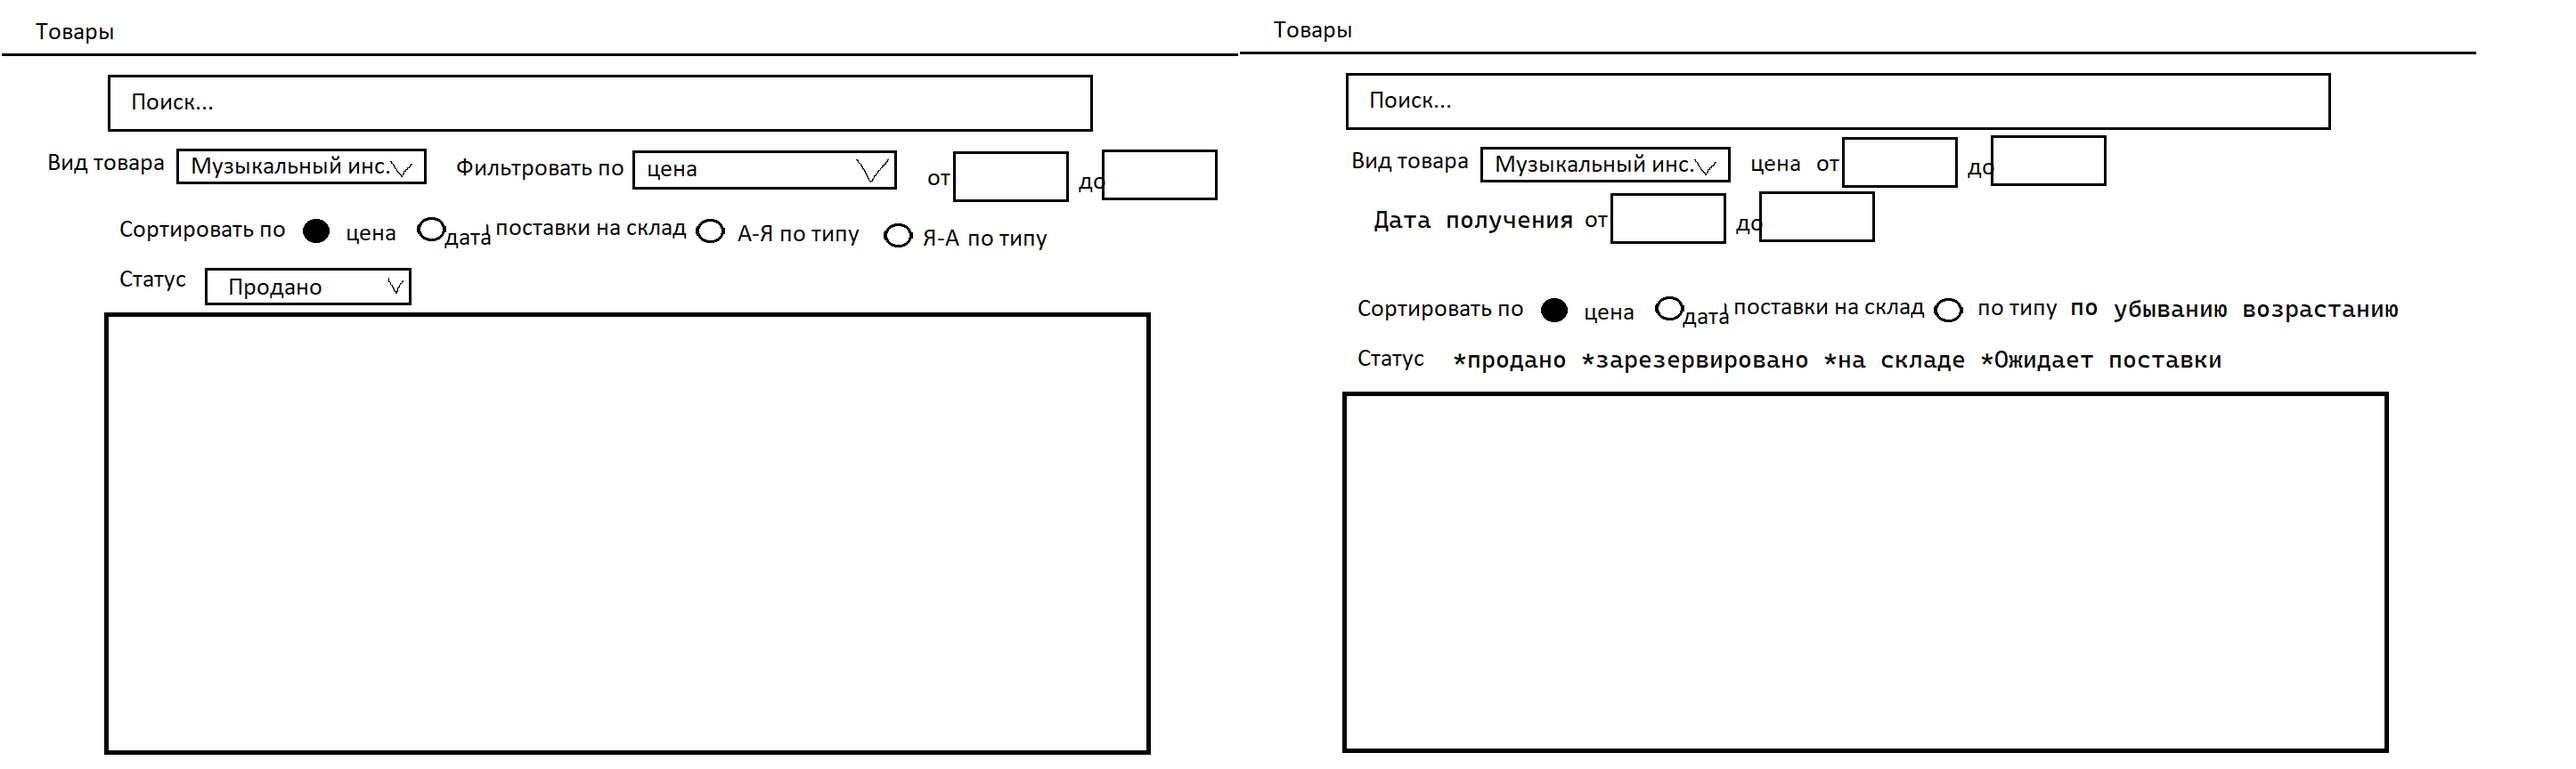
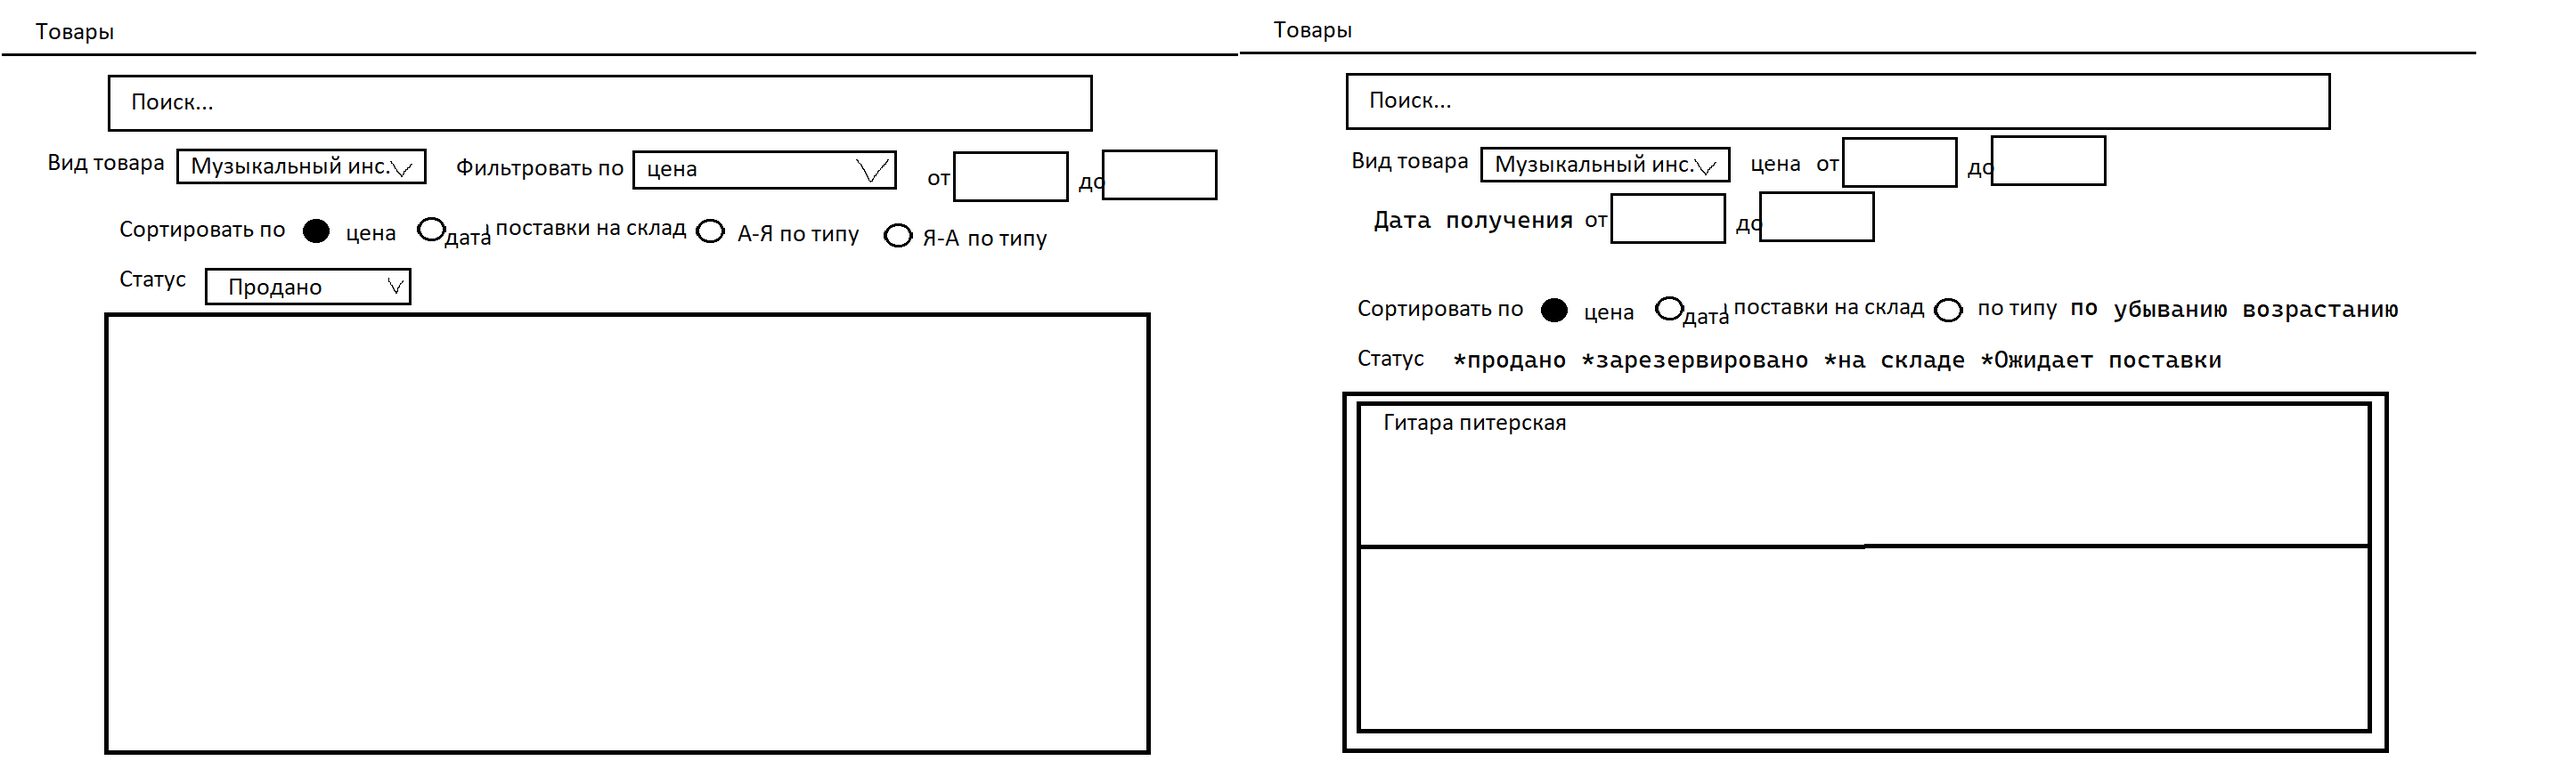
search with query string (interesting, complicated httppost and httpget stuff)

Changed region(s): [[0.529, 0.5, 0.9336, 0.5625], [0.529, 0.9375, 0.9336, 0.9688], [0.529, 0.6875, 0.9336, 0.7188]]

diff --git a/MusicalShopApp/wwwroot/css/site.css b/MusicalShopApp/wwwroot/css/site.css
@@ -50,3 +50,6 @@ div.update-user-errors {
     color: red;
 }
 
+hr.narrow {
+    height: 1px;
+}

diff --git a/DataLayer/Common/DataSeeding.cs b/DataLayer/Common/DataSeeding.cs
@@ -81,7 +81,8 @@ public class DataSeeding
             new()
             {
                 GoodsId = Guid.Parse("05812ce5-61c0-4eaf-8580-aeeb653b2191"),
-                Description = "FFG-3860C-SB Акустическая гитара, с вырезом, санберст, Foix",
+                Description = "Акустическая гитара, с вырезом, санберст, Foix",
+                Name = "FFG-3860C-SB",
                 ReceiptDate = new DateTimeOffset(new DateTime(2023, 10, 12, 10, 20, 35)),
                 Manufacturer = "John Spelberg",
                 ManufacturerType = ManufacturerType.Master,
@@ -93,7 +94,8 @@ public class DataSeeding
             new()
             {
                 GoodsId = Guid.Parse("9384b7c1-6727-4dd0-88cc-7e1a1d9062cb"),
-                Description = "FFG-3860C-SB Акустическая гитара, без выреза, санберст, Hoix",
+                Description = " Акустическая гитара, без выреза, санберст, Hoix",
+                Name = "Kolenval-SB-SUNBRESTS",
                 ReceiptDate = new DateTimeOffset(new DateTime(2024, 10, 12, 10, 20, 35)),
                 Manufacturer = "John Spelberg",
                 ManufacturerType = ManufacturerType.Master,
@@ -105,9 +107,11 @@ public class DataSeeding
             new()
             {
                 GoodsId = Guid.Parse("148b3083-f123-44df-8fce-af4c7014ac31"),
-                Description = "L529-9X8823L Акустическая гитара, без порожков, Nice",
+                Description = "Акустическая гитара, без порожков, Nice",
+                Name = "L529-9X8823L-CCAS3-AR-2IC-3H-1SAEID50-BEZ-POROJKOF-OTVALILIS':(",
                 ReceiptDate = new DateTimeOffset(new DateTime(2022, 1, 10, 1, 20, 35)),
-                Manufacturer = "Завод гитар №1",
+#warning palindrome
+                Manufacturer = "Завод гитар имени Инемиратигдова З.",
                 ManufacturerType = ManufacturerType.Factory,
                 Price = 3499,
                 ReleaseYear = 2022,
@@ -117,7 +121,8 @@ public class DataSeeding
             new()
             {
                 GoodsId = Guid.Parse("0e05ca0d-7e34-4b65-a5fc-3e7b69194390"),
-                Description = "APPOLON-19 Акустическая гитара, без розетки, санберстс отсутствует.",
+                Description = "Акустическая гитара, без розетки, санберст отсутствует.",
+                Name = "APPOLON-19-SUNBURSTLESS",
                 ReceiptDate = null,
                 Manufacturer = "Завод гитар для котов",
                 ManufacturerType = ManufacturerType.Factory,
@@ -129,7 +134,8 @@ public class DataSeeding
             new()
             {
                 GoodsId = Guid.Parse("32eb21b6-6d88-42aa-9326-114297689a59"),
-                Description = "LDPWD Акустическая гитара, без выреза, артишок, Belucci",
+                Description = "Акустическая гитара, без выреза, артишок, Belucci",
+                Name = "LDPWD",
                 ReceiptDate = null,
                 Manufacturer = "Завод собачьих гитар",
                 ManufacturerType = ManufacturerType.Factory,
@@ -142,6 +148,7 @@ public class DataSeeding
             {
                 GoodsId = Guid.Parse("6f5c6af2-6fb7-4cf2-8730-5e365d2c1032"),
                 Description = "Акустическая гитара, без выреза, но с вырезом, проивзедено в США",
+                Name = "MyFirstGuitar",
                 ReceiptDate = new DateTimeOffset(new DateTime(2022, 1, 10, 1, 20, 35)),
                 Manufacturer = "John Maloe",
                 ManufacturerType = ManufacturerType.Master,
@@ -154,6 +161,7 @@ public class DataSeeding
             {
                 GoodsId = Guid.Parse("2b14e3ec-6af4-4094-ba4b-255933603cc9"),
                 Description = "*Барабанная дробь*... Барабанная установка \"Барабанная мечта\" - барабанный рай барабанного любителя.",
+                Name = "Стукач",
                 ReceiptDate = new DateTimeOffset(new DateTime(2024, 1, 10, 1, 20, 35)),
                 Manufacturer = "Барабанный лидер",
                 ManufacturerType = ManufacturerType.Factory,
@@ -166,6 +174,7 @@ public class DataSeeding
             {
                 GoodsId = Guid.Parse("a07319f6-4944-4f06-bb1c-b77c27e73b1d"),
                 Description = "Многослойные барабаны позволят слышать себя непревзойденно.",
+                Name = "Knocker-knocker",
                 ReceiptDate = new DateTimeOffset(new DateTime(2024, 1, 10, 1, 20, 35)),
                 Manufacturer = "Барабань-ка",
                 ManufacturerType = ManufacturerType.Factory,
@@ -178,6 +187,7 @@ public class DataSeeding
             {
                 GoodsId = Guid.Parse("ee1c5679-2018-4192-8e02-6efed0ef8c5a"),
                 Description = "Народный духовой инструмент",
+                Name = "[oOo]",
                 ReceiptDate = new DateTimeOffset(new DateTime(2024, 1, 10, 1, 20, 35)),
                 Manufacturer = "Завод барабанных флейт имени Дыхалова",
                 ManufacturerType = ManufacturerType.Factory,
@@ -190,6 +200,7 @@ public class DataSeeding
             {
                 GoodsId = Guid.Parse("9d7e4b3b-cbaa-4327-af1c-1ea3e232d68a"),
                 Description = "Компактное пианино, 3 режима, подсветка, присутствует нейросеть, позволяющая схватывать колебания головного мозга с целью воспроизведения желаемой мелодии. Сделано в СССР",
+                Name = "Sntzr-1937",
                 ReceiptDate = new DateTimeOffset(new DateTime(2023, 1, 10, 1, 20, 35)),
                 Manufacturer = "Steve Pianoe",
                 ManufacturerType = ManufacturerType.Master,
@@ -202,6 +213,7 @@ public class DataSeeding
             {
                 GoodsId = Guid.Parse("d7b2ff21-cc80-41fa-bef5-3ca93c5ec4fa"),
                 Description = "Данный синтезатор изготовлен из нержавеющего пластика, слоновьего зуба и экранированного хлеба. Корпус выполнен в командной строке.",
+                Name = "Bearded?Bear?Beer?Breed?Bread?",
                 ReceiptDate = new DateTimeOffset(new DateTime(2023, 1, 10, 1, 20, 35)),
                 Manufacturer = "Синтезаторы? Производим.",
                 ManufacturerType = ManufacturerType.Factory,
@@ -234,17 +246,19 @@ public class DataSeeding
                 {
                     GoodsId = Guid.Parse("05812ce5-61c0-4eaf-1937-aeeb653b2191"),
                     Description = "Круглая табуретка",
+                    Name = "Табуретка",
                     ReceiptDate = new DateTimeOffset(new DateTime(2023, 10, 12, 10, 20, 35)),
                     Price = 599,
                     Status = GoodsStatus.InStock,
                     Type = chairType,
                     Color = "Прозрачный",
-                    Size = "регулировка высоты от 10 до 100 см, 50см радиус седла"
+                    Size = "регулировка высоты от 10 до 150 см, 50см радиус седла"
                 },
                 new()
                 {
                     GoodsId = Guid.Parse("05812ce5-61c0-4eaf-1938-aeeb653b2191"),
-                    Description = "Брелок с граммофоном",
+                    Description = "Брелок с граммофоном отлично смотрится на архивных вещах",
+                    Name = "Брелок с граммофоном",
                     ReceiptDate = new DateTimeOffset(new DateTime(2023, 10, 12, 10, 20, 35)),
                     Price = 99,
                     Status = GoodsStatus.Reserved,
@@ -256,6 +270,7 @@ public class DataSeeding
                 {
                     GoodsId = Guid.Parse("05812ce5-61c0-4eaf-1939-aeeb653b2191"),
                     Description = "Набор 3 в 1: пюпитр и каподастр",
+                    Name = "Стартующий гитарист",
                     ReceiptDate = new DateTimeOffset(new DateTime(2023, 10, 12, 10, 20, 35)),
                     Price = 699,
                     Status = GoodsStatus.Sold,

diff --git a/DataLayer/MysqlMigrations/20241021151900_v0.5.3.cs b/DataLayer/MysqlMigrations/20241021151900_v0.5.3.cs
@@ -1,0 +1,70 @@
+using Microsoft.EntityFrameworkCore.Migrations;
+
+#nullable disable
+
+namespace DataLayer.Migrations
+{
+    /// <inheritdoc />
+    public partial class v053 : Migration
+    {
+        /// <inheritdoc />
+        protected override void Up(MigrationBuilder migrationBuilder)
+        {
+            migrationBuilder.AddColumn<string>(
+                name: "Name",
+                table: "sheet_music_editions",
+                type: "varchar(200)",
+                maxLength: 200,
+                nullable: false,
+                defaultValue: "")
+                .Annotation("MySql:CharSet", "utf8mb4");
+
+            migrationBuilder.AddColumn<string>(
+                name: "Name",
+                table: "musical_instruments",
+                type: "varchar(200)",
+                maxLength: 200,
+                nullable: false,
+                defaultValue: "")
+                .Annotation("MySql:CharSet", "utf8mb4");
+
+            migrationBuilder.AddColumn<string>(
+                name: "Name",
+                table: "audio_equipment_units",
+                type: "varchar(200)",
+                maxLength: 200,
+                nullable: false,
+                defaultValue: "")
+                .Annotation("MySql:CharSet", "utf8mb4");
+
+            migrationBuilder.AddColumn<string>(
+                name: "Name",
+                table: "accessories",
+                type: "varchar(200)",
+                maxLength: 200,
+                nullable: false,
+                defaultValue: "")
+                .Annotation("MySql:CharSet", "utf8mb4");
+        }
+
+        /// <inheritdoc />
+        protected override void Down(MigrationBuilder migrationBuilder)
+        {
+            migrationBuilder.DropColumn(
+                name: "Name",
+                table: "sheet_music_editions");
+
+            migrationBuilder.DropColumn(
+                name: "Name",
+                table: "musical_instruments");
+
+            migrationBuilder.DropColumn(
+                name: "Name",
+                table: "audio_equipment_units");
+
+            migrationBuilder.DropColumn(
+                name: "Name",
+                table: "accessories");
+        }
+    }
+}

diff --git a/ServiceLayer/GoodsServices/GoodsService.cs b/ServiceLayer/GoodsServices/GoodsService.cs
@@ -61,12 +61,12 @@ public class GoodsService(MusicalShopDbContext context)
             case "SheetMusicEdition":
                 dynamic specificGoods = goods;
                 string from = typeof(T).Name == "MusicalInstrument" ? specificGoods.Manufacturer : specificGoods.Author;
-                dto.Name = $"{specificGoods.Type.Name} от {from}";
-                string description = $"Год выпуска: {specificGoods.ReleaseYear}.";
+                dto.Name = $"{specificGoods.Name} от \"{from}\"";
+                string description = $"Год выпуска: {specificGoods.ReleaseYear}. ";
                 int remainedLength = MAX_LENGTH_OF_BRIEF_GOODS_DESCRIPTION - description.Length;
                 int takeDescriptionLength = specificGoods.Description.Length <= remainedLength ? specificGoods.Description.Length : remainedLength;
-                description = description + specificGoods.Description.Substring(0, takeDescriptionLength);
-                if (takeDescriptionLength > specificGoods.Description.Length)
+                description += specificGoods.Description.Substring(0, takeDescriptionLength);
+                if (takeDescriptionLength < specificGoods.Description.Length)
                     description += "...";
                 dto.Description = description;
                 break;
@@ -74,12 +74,12 @@ public class GoodsService(MusicalShopDbContext context)
                 var accessory = (Accessory)goods;
                 string color = accessory.Color.ToLower();
                 string size = accessory.Size.ToLower();
-                dto.Name = $"{accessory.Type.Name}, {color}, {size}";
+                dto.Name = $"{accessory.Name}, {color}, {size}";
                 dto.Description = accessory.Description[..MAX_LENGTH_OF_BRIEF_GOODS_DESCRIPTION];
                 break;
             case "AudioEquipmentUnit":
                 var audioEquipmentUnit = (AudioEquipmentUnit)goods;
-                dto.Name = $"{audioEquipmentUnit.Type.Name}";
+                dto.Name = $"{audioEquipmentUnit.Name}";
                 dto.Description = audioEquipmentUnit.Description[..MAX_LENGTH_OF_BRIEF_GOODS_DESCRIPTION];
                 break;
 #warning Unreachable code

diff --git a/MusicalShopApp/Controllers/GoodsController.cs b/MusicalShopApp/Controllers/GoodsController.cs
@@ -40,8 +40,22 @@ public class GoodsController : Controller
         return View(new ErrorViewModel { RequestId = Activity.Current?.Id ?? HttpContext.TraceIdentifier });
     }
 
-    [HttpPost(template: "/goods/search")]
+    [HttpPost]
     [ValidateAntiForgeryToken]
+    public async Task<IActionResult> Search(GoodsSearchModel model)
+    {
+        //GoodsSearchModel model = new()
+        //{
+        //    Filter = new GoodsFilterOptions(null, null, null, null, KindOfGoods: KindOfGoods.MusicalInstruments,
+        //        Status: GoodsStatus.InStock),
+        //    GoodsUnitModels = [],
+        //    OrderBy = new GoodsOrderByOptions(GoodsOrderBy.Relevance, true),
+        //    ResearchText = string.Empty
+        //};
+        return View(model);
+    }
+
+    [HttpGet]
     public async Task<IActionResult> Search([FromServices] GoodsService service, [FromQuery] string q, [FromQuery] int? minPrice, [FromQuery] int? maxPrice, [FromQuery] string? fromDate, [FromQuery] string? toDate, [FromQuery] string kindOfGoods=nameof(KindOfGoods.MusicalInstruments), [FromQuery] string orderBy=nameof(GoodsOrderBy.Relevance), [FromQuery] bool ascendingOrder=true, [FromQuery] int page=1, [FromQuery] int pageSize=15, [FromQuery] string status=nameof(GoodsStatus.InStock))
     {
         var kindOfGoodsEnum = Enum.Parse<KindOfGoods>(kindOfGoods, ignoreCase: true);

diff --git a/DataLayer/MysqlMigrations/20241021151900_v0.5.3.Designer.cs b/DataLayer/MysqlMigrations/20241021151900_v0.5.3.Designer.cs
@@ -4,6 +4,7 @@ using DataLayer.Common;
 using Microsoft.EntityFrameworkCore;
 using Microsoft.EntityFrameworkCore.Infrastructure;
 using Microsoft.EntityFrameworkCore.Metadata;
+using Microsoft.EntityFrameworkCore.Migrations;
 using Microsoft.EntityFrameworkCore.Storage.ValueConversion;
 
 #nullable disable
@@ -11,9 +12,11 @@ using Microsoft.EntityFrameworkCore.Storage.ValueConversion;
 namespace DataLayer.Migrations
 {
     [DbContext(typeof(MusicalShopDbContext))]
-    partial class MusicalShopDbContextModelSnapshot : ModelSnapshot
+    [Migration("20241021151900_v0.5.3")]
+    partial class v053
     {
-        protected override void BuildModel(ModelBuilder modelBuilder)
+        /// <inheritdoc />
+        protected override void BuildTargetModel(ModelBuilder modelBuilder)
         {
 #pragma warning disable 612, 618
             modelBuilder

diff --git a/DataLayer/NotMapped/Goods.cs b/DataLayer/NotMapped/Goods.cs
@@ -19,11 +19,13 @@ public class Goods : ISoftDeletable
     [Column("soft_deleted")]
     public bool SoftDeleted { get; set; }
 #warning workaround
-    [Range(0, 10_000_000)]
+    [Range(0, 4_294_967_295)]
     public int Price { get; set; }
     public GoodsStatus Status { get; set; }
     [MaxLength(500)]
     public string Description { get; set; }
+    [MaxLength(200)]
+    public string Name { get; set; }
     // relationships
     [Column("sale_id")]
     public int? SaleId { get; set; }

diff --git a/DataLayer/SupportClasses/Extensions.cs b/DataLayer/SupportClasses/Extensions.cs
@@ -1,0 +1,12 @@
+namespace DataLayer.SupportClasses;
+public static class Extensions
+{
+    public static string ToFormattedText(this GoodsStatus goodsStatus) =>
+        goodsStatus switch
+        {
+            GoodsStatus.InStock => "На складе",
+            GoodsStatus.AwaitingDelivery => "Ожидает поставки",
+            GoodsStatus.Sold => "Продано",
+            GoodsStatus.Reserved => "Зарезервировано"
+        };
+}

diff --git a/DataLayer/SupportClasses/GoodsStatus.cs b/DataLayer/SupportClasses/GoodsStatus.cs
@@ -1,3 +1,5 @@
+using System.ComponentModel;
+
 public enum GoodsStatus
 {
     InStock,
